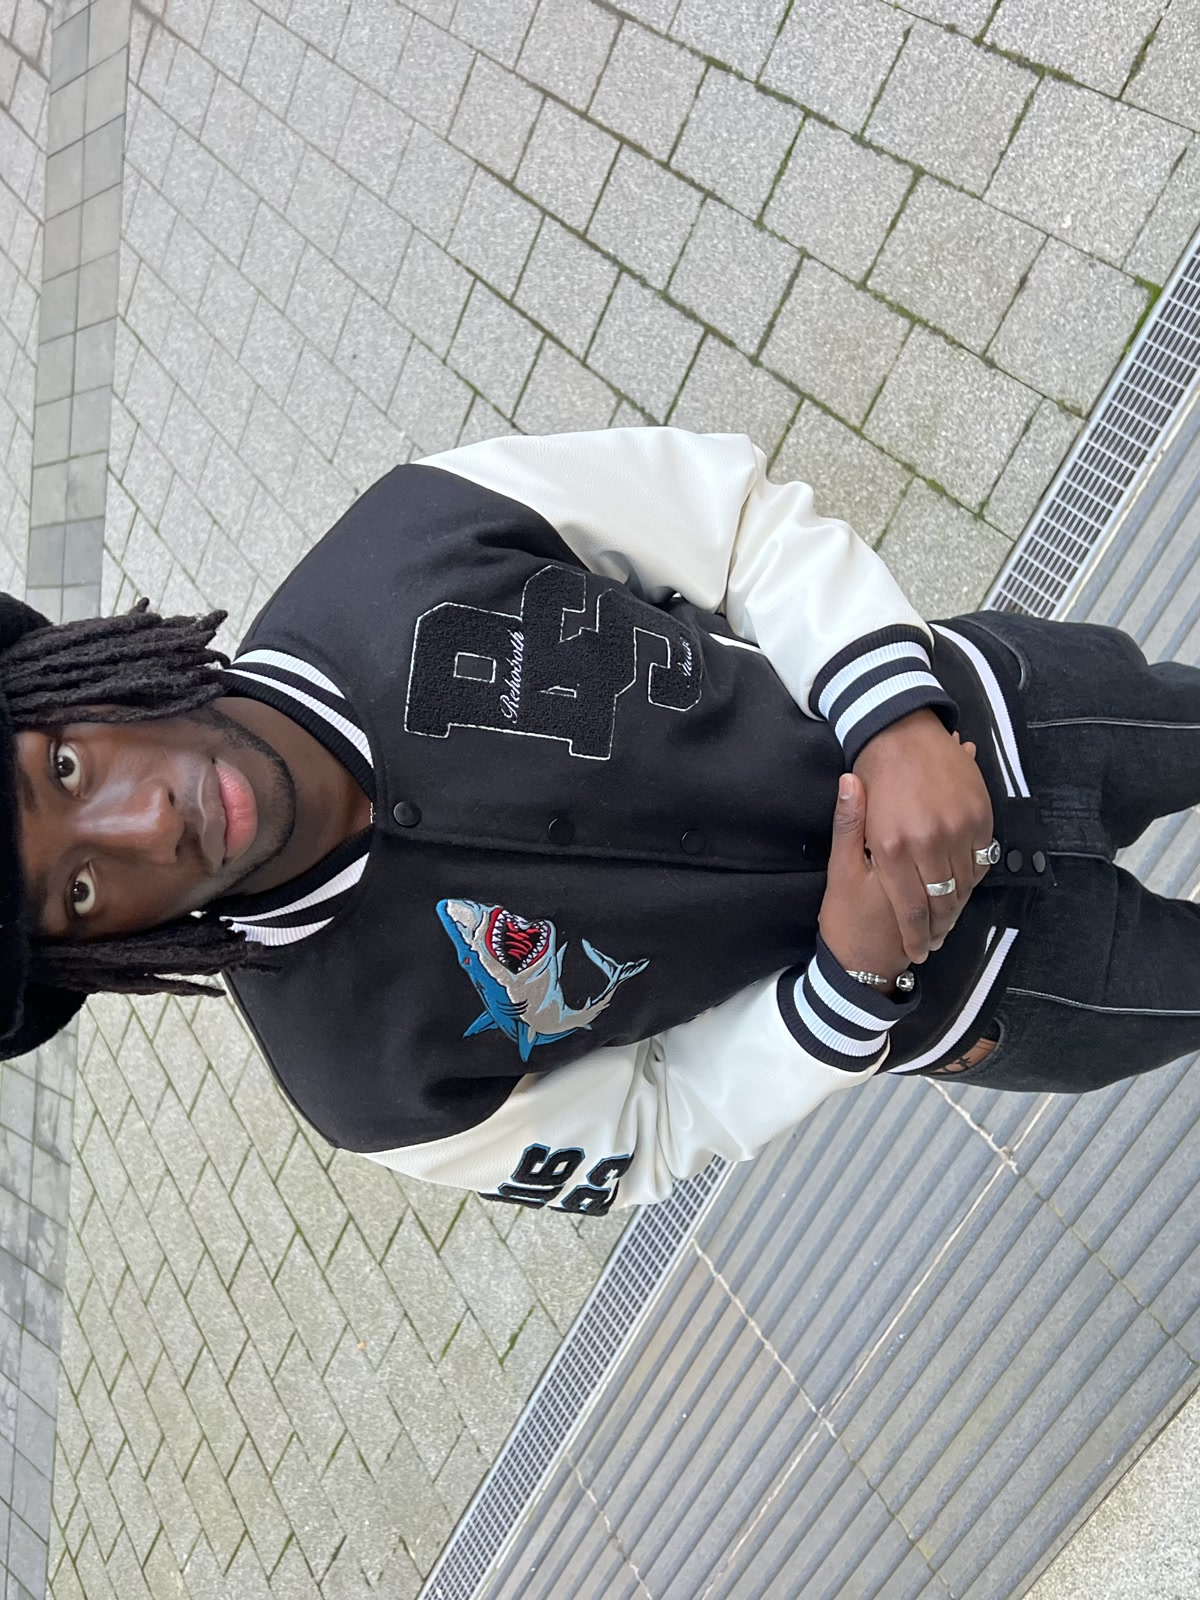
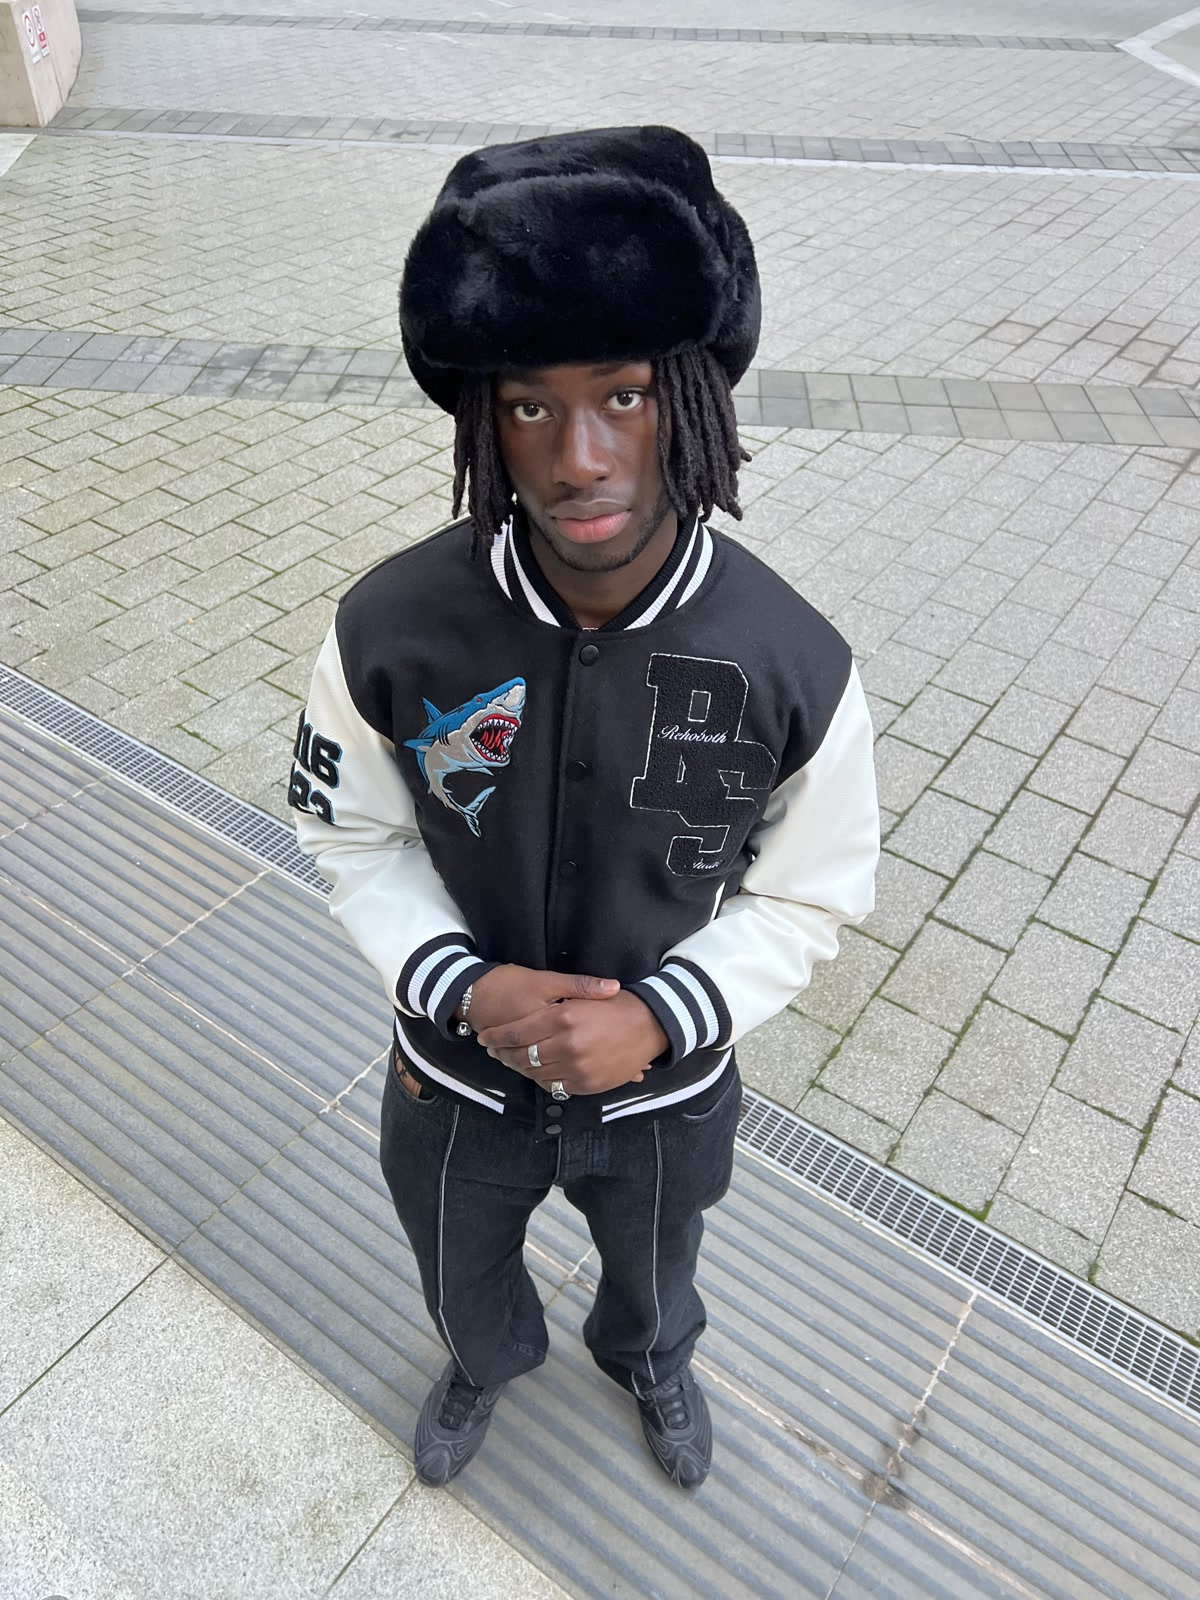
fix: balcony frame out, varsity shot rotated upright

diff --git a/fashion.html b/fashion.html
@@ -177,11 +177,6 @@
       </figure>
       <figure>
         <a href="https://www.instagram.com/kayzisland">
-          <div class="kz-grade"><img src="media/ig/stay-free-00.jpg" alt="Stay Free shoot frame" loading="lazy"><span class="peek">VIEW ON INSTAGRAM →</span></div>
-        </a>
-      </figure>
-      <figure>
-        <a href="https://www.instagram.com/kayzisland">
           <div class="kz-grade"><img src="media/ig/blame-the-accent-05.jpg" alt="Blame The Accent shoot frame" loading="lazy"><span class="peek">VIEW ON INSTAGRAM →</span></div>
         </a>
       </figure>
@@ -190,15 +185,15 @@
           <div class="kz-grade"><img src="media/shoot-studio-08.jpg" alt="Studio editorial frame" loading="lazy"><span class="peek">VIEW ON INSTAGRAM →</span></div>
         </a>
       </figure>
-      <div class="glz">
-        <p>"Honestly your carousel fit pics are tuff"</p>
-        <div class="who">PRIVACY™</div>
-      </div>
       <figure>
         <a href="https://www.instagram.com/kayzisland">
           <div class="kz-grade"><img src="media/ig/renaissance-in-motion-03.jpg" alt="Renaissance In Motion shoot frame" loading="lazy"><span class="peek">VIEW ON INSTAGRAM →</span></div>
         </a>
       </figure>
+      <div class="glz">
+        <p>"Honestly your carousel fit pics are tuff"</p>
+        <div class="who">PRIVACY™</div>
+      </div>
       <figure>
         <a href="https://www.instagram.com/kayzisland">
           <div class="kz-grade"><img src="media/ig/double-vision-03.jpg" alt="Double Vision shoot frame" loading="lazy"><span class="peek">VIEW ON INSTAGRAM →</span></div>
@@ -211,7 +206,7 @@
       </figure>
       <figure>
         <a href="https://www.instagram.com/kayzisland">
-          <div class="kz-grade"><img src="media/ig/stay-free-01.jpg" alt="Stay Free shoot frame" loading="lazy"><span class="peek">VIEW ON INSTAGRAM →</span></div>
+          <div class="kz-grade"><img src="media/ig/stay-free-00.jpg" alt="Stay Free shoot frame" loading="lazy"><span class="peek">VIEW ON INSTAGRAM →</span></div>
         </a>
       </figure>
       <figure>
@@ -229,15 +224,15 @@
           <div class="kz-grade"><img src="media/ig/goalaso-00.jpg" alt="Goalaso shoot frame" loading="lazy"><span class="peek">VIEW ON INSTAGRAM →</span></div>
         </a>
       </figure>
-      <div class="glz">
-        <p>"u got that appearance and vibe for it without even trying that hard"</p>
-        <div class="who">ALMOSTED</div>
-      </div>
       <figure>
         <a href="https://www.instagram.com/kayzisland">
           <div class="kz-grade"><img src="media/ig/blame-the-accent-06.jpg" alt="Blame The Accent shoot frame" loading="lazy"><span class="peek">VIEW ON INSTAGRAM →</span></div>
         </a>
       </figure>
+      <div class="glz">
+        <p>"u got that appearance and vibe for it without even trying that hard"</p>
+        <div class="who">ALMOSTED</div>
+      </div>
       <figure>
         <a href="https://www.instagram.com/kayzisland">
           <div class="kz-grade"><img src="media/shoot-studio-09.jpg" alt="Studio editorial frame" loading="lazy"><span class="peek">VIEW ON INSTAGRAM →</span></div>
@@ -260,7 +255,7 @@
       </figure>
       <figure>
         <a href="https://www.instagram.com/kayzisland">
-          <div class="kz-grade"><img src="media/ig/stay-free-04.jpg" alt="Stay Free shoot frame" loading="lazy"><span class="peek">VIEW ON INSTAGRAM →</span></div>
+          <div class="kz-grade"><img src="media/ig/stay-free-01.jpg" alt="Stay Free shoot frame" loading="lazy"><span class="peek">VIEW ON INSTAGRAM →</span></div>
         </a>
       </figure>
       <figure>
@@ -268,15 +263,15 @@
           <div class="kz-grade"><img src="media/ig/bare-grillz-02.jpg" alt="Bare Grillz shoot frame" loading="lazy"><span class="peek">VIEW ON INSTAGRAM →</span></div>
         </a>
       </figure>
-      <div class="glz">
-        <p>"I think you lot are gonna be my reoccurring models like the faces I'm always gonna use"</p>
-        <div class="who">@WHERESYASIIN</div>
-      </div>
       <figure>
         <a href="https://www.instagram.com/kayzisland">
           <div class="kz-grade"><img src="media/ig/s-x-symbol-01.jpg" alt="S X Symbol shoot frame" loading="lazy"><span class="peek">VIEW ON INSTAGRAM →</span></div>
         </a>
       </figure>
+      <div class="glz">
+        <p>"I think you lot are gonna be my reoccurring models like the faces I'm always gonna use"</p>
+        <div class="who">@WHERESYASIIN</div>
+      </div>
       <figure>
         <a href="https://www.instagram.com/kayzisland">
           <div class="kz-grade"><img src="media/ig/goalaso-01.jpg" alt="Goalaso shoot frame" loading="lazy"><span class="peek">VIEW ON INSTAGRAM →</span></div>
@@ -307,15 +302,15 @@
           <div class="kz-grade"><img src="media/shoot-studio-10.jpg" alt="Studio editorial frame" loading="lazy"><span class="peek">VIEW ON INSTAGRAM →</span></div>
         </a>
       </figure>
-      <div class="glz">
-        <p>"This fit is dangerous, what the heck<span class="kz-stop">.</span>"</p>
-        <div class="who">@IMMORTALBOMO</div>
-      </div>
       <figure>
         <a href="https://www.instagram.com/kayzisland">
           <div class="kz-grade"><img src="media/ig/renaissance-in-motion-05.jpg" alt="Renaissance In Motion shoot frame" loading="lazy"><span class="peek">VIEW ON INSTAGRAM →</span></div>
         </a>
       </figure>
+      <div class="glz">
+        <p>"This fit is dangerous, what the heck<span class="kz-stop">.</span>"</p>
+        <div class="who">@IMMORTALBOMO</div>
+      </div>
       <figure>
         <a href="https://www.instagram.com/kayzisland">
           <div class="kz-grade"><img src="media/ig/double-vision-05.jpg" alt="Double Vision shoot frame" loading="lazy"><span class="peek">VIEW ON INSTAGRAM →</span></div>
@@ -328,7 +323,7 @@
       </figure>
       <figure>
         <a href="https://www.instagram.com/kayzisland">
-          <div class="kz-grade"><img src="media/ig/stay-free-05.jpg" alt="Stay Free shoot frame" loading="lazy"><span class="peek">VIEW ON INSTAGRAM →</span></div>
+          <div class="kz-grade"><img src="media/ig/stay-free-04.jpg" alt="Stay Free shoot frame" loading="lazy"><span class="peek">VIEW ON INSTAGRAM →</span></div>
         </a>
       </figure>
       <figure>
@@ -346,15 +341,15 @@
           <div class="kz-grade"><img src="media/ig/goalaso-02.jpg" alt="Goalaso shoot frame" loading="lazy"><span class="peek">VIEW ON INSTAGRAM →</span></div>
         </a>
       </figure>
-      <div class="glz">
-        <p>"Can feel the aura through the screen"</p>
-        <div class="who">DBK · DIASPORA</div>
-      </div>
       <figure>
         <a href="https://www.instagram.com/kayzisland">
           <div class="kz-grade"><img src="media/ig/da-gulliest-01.jpg" alt="Da Gulliest shoot frame" loading="lazy"><span class="peek">VIEW ON INSTAGRAM →</span></div>
         </a>
       </figure>
+      <div class="glz">
+        <p>"Can feel the aura through the screen"</p>
+        <div class="who">DBK · DIASPORA</div>
+      </div>
       <figure>
         <a href="https://www.instagram.com/kayzisland">
           <div class="kz-grade"><img src="media/ig/sakura-02.jpg" alt="Sakura shoot frame" loading="lazy"><span class="peek">VIEW ON INSTAGRAM →</span></div>
@@ -385,15 +380,15 @@
           <div class="kz-grade"><img src="media/ig/blame-the-accent-10.jpg" alt="Blame The Accent shoot frame" loading="lazy"><span class="peek">VIEW ON INSTAGRAM →</span></div>
         </a>
       </figure>
-      <div class="glz">
-        <p>"Honestly your carousel fit pics are tuff"</p>
-        <div class="who">PRIVACY™</div>
-      </div>
       <figure>
         <a href="https://www.instagram.com/kayzisland">
           <div class="kz-grade"><img src="media/shoot-studio-11.jpg" alt="Studio editorial frame" loading="lazy"><span class="peek">VIEW ON INSTAGRAM →</span></div>
         </a>
       </figure>
+      <div class="glz">
+        <p>"Honestly your carousel fit pics are tuff"</p>
+        <div class="who">PRIVACY™</div>
+      </div>
       <figure>
         <a href="https://www.instagram.com/kayzisland">
           <div class="kz-grade"><img src="media/ig/renaissance-in-motion-06.jpg" alt="Renaissance In Motion shoot frame" loading="lazy"><span class="peek">VIEW ON INSTAGRAM →</span></div>
@@ -411,7 +406,7 @@
       </figure>
       <figure>
         <a href="https://www.instagram.com/kayzisland">
-          <div class="kz-grade"><img src="media/ig/stay-free-08.jpg" alt="Stay Free shoot frame" loading="lazy"><span class="peek">VIEW ON INSTAGRAM →</span></div>
+          <div class="kz-grade"><img src="media/ig/stay-free-05.jpg" alt="Stay Free shoot frame" loading="lazy"><span class="peek">VIEW ON INSTAGRAM →</span></div>
         </a>
       </figure>
       <figure>
@@ -424,15 +419,15 @@
           <div class="kz-grade"><img src="media/ig/s-x-symbol-03.jpg" alt="S X Symbol shoot frame" loading="lazy"><span class="peek">VIEW ON INSTAGRAM →</span></div>
         </a>
       </figure>
-      <div class="glz">
-        <p>"u got that appearance and vibe for it without even trying that hard"</p>
-        <div class="who">ALMOSTED</div>
-      </div>
       <figure>
         <a href="https://www.instagram.com/kayzisland">
           <div class="kz-grade"><img src="media/ig/goalaso-03.jpg" alt="Goalaso shoot frame" loading="lazy"><span class="peek">VIEW ON INSTAGRAM →</span></div>
         </a>
       </figure>
+      <div class="glz">
+        <p>"u got that appearance and vibe for it without even trying that hard"</p>
+        <div class="who">ALMOSTED</div>
+      </div>
       <figure>
         <a href="https://www.instagram.com/kayzisland">
           <div class="kz-grade"><img src="media/ig/da-gulliest-02.jpg" alt="Da Gulliest shoot frame" loading="lazy"><span class="peek">VIEW ON INSTAGRAM →</span></div>
@@ -463,15 +458,15 @@
           <div class="kz-grade"><img src="media/shoot-studio-editorial-02.jpg" alt="Studio editorial, leather jacket" loading="lazy"><span class="peek">VIEW ON INSTAGRAM →</span></div>
         </a>
       </figure>
-      <div class="glz">
-        <p>"I think you lot are gonna be my reoccurring models like the faces I'm always gonna use"</p>
-        <div class="who">@WHERESYASIIN</div>
-      </div>
       <figure>
         <a href="https://www.instagram.com/kayzisland">
           <div class="kz-grade"><img src="media/shoot-bape-01.jpg" alt="BAPE studio, duo on white" loading="lazy"><span class="peek">VIEW ON INSTAGRAM →</span></div>
         </a>
       </figure>
+      <div class="glz">
+        <p>"I think you lot are gonna be my reoccurring models like the faces I'm always gonna use"</p>
+        <div class="who">@WHERESYASIIN</div>
+      </div>
       <figure>
         <a href="https://www.instagram.com/kayzisland">
           <div class="kz-grade"><img src="media/shoot-pdtr.jpg" alt="Paint Da Town Red, the phone box" loading="lazy"><span class="peek">VIEW ON INSTAGRAM →</span></div>
@@ -502,30 +497,15 @@
           <div class="kz-grade"><img src="media/ig/blame-the-accent-11.jpg" alt="Blame The Accent shoot frame" loading="lazy"><span class="peek">VIEW ON INSTAGRAM →</span></div>
         </a>
       </figure>
-      <div class="glz">
-        <p>"This fit is dangerous, what the heck<span class="kz-stop">.</span>"</p>
-        <div class="who">@IMMORTALBOMO</div>
-      </div>
-      <figure>
-        <a href="https://www.instagram.com/kayzisland">
-          <div class="kz-grade"><img src="media/shoot-wesh-quartet.jpg" alt="Wesh, the quartet at the gates" loading="lazy"><span class="peek">VIEW ON INSTAGRAM →</span></div>
-        </a>
-      </figure>
       <figure>
         <a href="https://www.instagram.com/kayzisland">
           <div class="kz-grade"><img src="media/shoot-studio-12.jpg" alt="Studio editorial frame" loading="lazy"><span class="peek">VIEW ON INSTAGRAM →</span></div>
         </a>
       </figure>
-      <figure>
-        <a href="https://www.instagram.com/kayzisland">
-          <div class="kz-grade"><img src="media/shoot-wesh-navy.jpg" alt="Wesh, navy tracksuit at the lamppost" loading="lazy"><span class="peek">VIEW ON INSTAGRAM →</span></div>
-        </a>
-      </figure>
-      <figure>
-        <a href="https://www.instagram.com/kayzisland">
-          <div class="kz-grade"><img src="media/shoot-twy-varsity.jpg" alt="Take What's Yours, shark varsity and fur ushanka" loading="lazy"><span class="peek">VIEW ON INSTAGRAM →</span></div>
-        </a>
-      </figure>
+      <div class="glz">
+        <p>"This fit is dangerous, what the heck<span class="kz-stop">.</span>"</p>
+        <div class="who">@IMMORTALBOMO</div>
+      </div>
       <figure>
         <a href="https://www.instagram.com/kayzisland">
           <div class="kz-grade"><img src="media/ig/renaissance-in-motion-08.jpg" alt="Renaissance In Motion shoot frame" loading="lazy"><span class="peek">VIEW ON INSTAGRAM →</span></div>
@@ -541,13 +521,9 @@
           <div class="kz-grade"><img src="media/ig/organised-chaos-06.jpg" alt="Organised Chaos shoot frame" loading="lazy"><span class="peek">VIEW ON INSTAGRAM →</span></div>
         </a>
       </figure>
-      <div class="glz">
-        <p>"Can feel the aura through the screen"</p>
-        <div class="who">DBK · DIASPORA</div>
-      </div>
       <figure>
         <a href="https://www.instagram.com/kayzisland">
-          <div class="kz-grade"><img src="media/ig/stay-free-09.jpg" alt="Stay Free shoot frame" loading="lazy"><span class="peek">VIEW ON INSTAGRAM →</span></div>
+          <div class="kz-grade"><img src="media/ig/stay-free-08.jpg" alt="Stay Free shoot frame" loading="lazy"><span class="peek">VIEW ON INSTAGRAM →</span></div>
         </a>
       </figure>
       <figure>
@@ -565,6 +541,10 @@
           <div class="kz-grade"><img src="media/ig/goalaso-04.jpg" alt="Goalaso shoot frame" loading="lazy"><span class="peek">VIEW ON INSTAGRAM →</span></div>
         </a>
       </figure>
+      <div class="glz">
+        <p>"Can feel the aura through the screen"</p>
+        <div class="who">DBK · DIASPORA</div>
+      </div>
       <figure>
         <a href="https://www.instagram.com/kayzisland">
           <div class="kz-grade"><img src="media/ig/da-gulliest-04.jpg" alt="Da Gulliest shoot frame" loading="lazy"><span class="peek">VIEW ON INSTAGRAM →</span></div>
@@ -580,10 +560,6 @@
           <div class="kz-grade"><img src="media/ig/preppy-pimpin-03.jpg" alt="Preppy Pimpin shoot frame" loading="lazy"><span class="peek">VIEW ON INSTAGRAM →</span></div>
         </a>
       </figure>
-      <div class="glz">
-        <p>"Honestly your carousel fit pics are tuff"</p>
-        <div class="who">PRIVACY™</div>
-      </div>
       <figure>
         <a href="https://www.instagram.com/kayzisland">
           <div class="kz-grade"><img src="media/ig/motion-sick-matter-pink-02.jpg" alt="Motion Sick Matter Pink shoot frame" loading="lazy"><span class="peek">VIEW ON INSTAGRAM →</span></div>
@@ -619,10 +595,6 @@
           <div class="kz-grade"><img src="media/shoot-vanilla-whites-timbs-02.jpg" alt="Vanilla shorts at the rail" loading="lazy"><span class="peek">VIEW ON INSTAGRAM →</span></div>
         </a>
       </figure>
-      <div class="glz">
-        <p>"u got that appearance and vibe for it without even trying that hard"</p>
-        <div class="who">ALMOSTED</div>
-      </div>
       <figure>
         <a href="https://www.instagram.com/kayzisland">
           <div class="kz-grade"><img src="media/shoot-camo-duo-02.jpg" alt="Camo duo, laughing" loading="lazy"><span class="peek">VIEW ON INSTAGRAM →</span></div>
@@ -631,6 +603,21 @@
       <figure>
         <a href="https://www.instagram.com/kayzisland">
           <div class="kz-grade"><img src="media/shoot-pgwv-tee-02.jpg" alt="PGWV tee, corrugated black" loading="lazy"><span class="peek">VIEW ON INSTAGRAM →</span></div>
+        </a>
+      </figure>
+      <figure>
+        <a href="https://www.instagram.com/kayzisland">
+          <div class="kz-grade"><img src="media/shoot-wesh-quartet.jpg" alt="Wesh, the quartet at the gates" loading="lazy"><span class="peek">VIEW ON INSTAGRAM →</span></div>
+        </a>
+      </figure>
+      <figure>
+        <a href="https://www.instagram.com/kayzisland">
+          <div class="kz-grade"><img src="media/shoot-wesh-navy.jpg" alt="Wesh, navy tracksuit at the lamppost" loading="lazy"><span class="peek">VIEW ON INSTAGRAM →</span></div>
+        </a>
+      </figure>
+      <figure>
+        <a href="https://www.instagram.com/kayzisland">
+          <div class="kz-grade"><img src="media/shoot-twy-varsity.jpg" alt="Take What's Yours, shark varsity and fur ushanka" loading="lazy"><span class="peek">VIEW ON INSTAGRAM →</span></div>
         </a>
       </figure>
       <figure>
@@ -658,10 +645,6 @@
           <div class="kz-grade"><img src="media/shoot-thobe-group.jpg" alt="Beyond The Surface, the group" loading="lazy"><span class="peek">VIEW ON INSTAGRAM →</span></div>
         </a>
       </figure>
-      <div class="glz">
-        <p>"I think you lot are gonna be my reoccurring models like the faces I'm always gonna use"</p>
-        <div class="who">@WHERESYASIIN</div>
-      </div>
       <figure>
         <a href="https://www.instagram.com/kayzisland">
           <div class="kz-grade"><img src="media/shoot-pink-leopard-duo.jpg" alt="Pink leopard duo" loading="lazy"><span class="peek">VIEW ON INSTAGRAM →</span></div>
